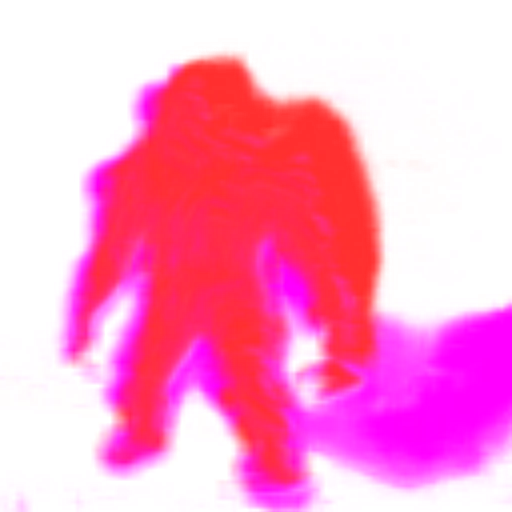
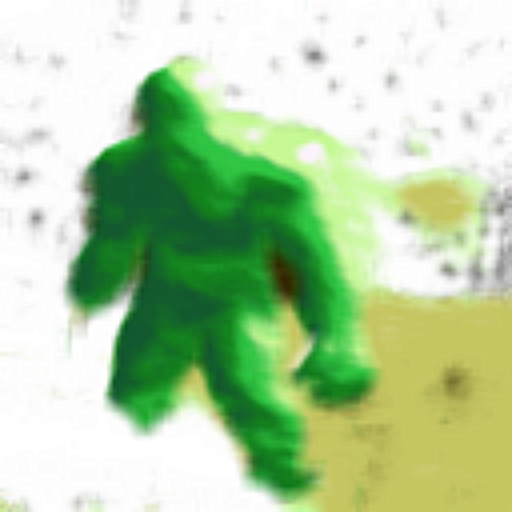
fixed display

diff --git a/mainwindow.cpp b/mainwindow.cpp
@@ -23,12 +23,18 @@ MainWindow::MainWindow()
     settings.loadSettingsOrDefaults();
 
     QHBoxLayout *hLayout = new QHBoxLayout(); // horizontal layout for canvas and controls panel
+    QHBoxLayout *hLayout_output = new QHBoxLayout(); // horizontal layout for canvas and controls panel
     QVBoxLayout *vLayout = new QVBoxLayout(); // vertical layout for control panel
+    QVBoxLayout *vLayout_output = new QVBoxLayout(); // vertical layout for control panel
 
     vLayout->setAlignment(Qt::AlignTop);
-
     hLayout->addLayout(vLayout);
+
+    //vLayout_output->setAlignment(Qt::AlignBottom);
+    //hLayout_output->addLayout(vLayout_output);
+
     setLayout(hLayout);
+    //setLayout(hLayout_output);
 
     setupCanvas2D();
     resize(800, 600);
@@ -36,8 +42,10 @@ MainWindow::MainWindow()
     // makes the canvas into a scroll area
     QScrollArea *scrollArea = new QScrollArea();
     scrollArea->setWidget(m_canvas);
+    //scrollArea->setWidget(m_canvas_output);
     scrollArea->setWidgetResizable(true);
     hLayout->addWidget(scrollArea, 1);
+
 
     // groupings by project
     QWidget *brushGroup = new QWidget();
@@ -101,6 +109,15 @@ void MainWindow::setupCanvas2D() {
     if (!settings.imagePath.isEmpty()) {
         m_canvas->loadImageFromFile(settings.imagePath);
     }
+
+
+//    m_canvas_output = new Canvas2D();
+//    m_canvas_output->init();
+//    if (!settings.imagePath.isEmpty()) {
+//        m_canvas_output->loadImageFromFile(settings.imagePath);
+//    }
+//    m_canvas_output->m_data.assign(m_canvas_output->m_width * m_canvas_output->m_height, RGBA{150, 255, 255, 255});
+
 }
 
 
@@ -239,22 +256,28 @@ void MainWindow::onStylizeButtonClick() {
     m_canvas->m_width = 128;
     m_canvas->m_height = 128;
 
-    // save drawing
-    QString file = QFileDialog::getSaveFileName(this, tr("Save Image"), QDir::currentPath(), tr("Image Files (*.png *.jpg *.jpeg)"));
-    m_canvas->saveImageToFile(file);
-    //saveImageToFile("Drawings/RECONSTRUCTION.png", m_canvas->m_data, 512, 512);
-
     int num_iterations = 6;
 
     std::vector<QString> srcPaths;
-    srcPaths.reserve(6);
+    srcPaths.reserve(5);
 
     std::vector<QString> tgtPaths;
-    srcPaths.reserve(6);
+    srcPaths.reserve(5);
 
     const QString srcFolder = "Data/Sphere_128/";
     const QString tgtFolder = "Data/Guy_128/"; // TO DO: user selection
-    const QString stylization = file;
+
+    auto blackTup = loadImageFromFile(tgtFolder + "black_square.bmp");
+    std::vector<RGBA> black_RGBA =  *std::get<0>(blackTup);
+
+//    std::vector<RGBA> starting_tgt_style;
+//    starting_tgt_style.assign(128 * 128, RGBA{255, 255, 255, 255});
+
+    Image srcImg, tgtImg;
+    tgtImg.width = 128;
+    tgtImg.height = 128;
+    srcImg.width = 128;
+    srcImg.height = 128;
 
     srcPaths.push_back(srcFolder + "color.bmp");
     srcPaths.push_back(srcFolder + "LPE1.bmp");
@@ -268,9 +291,8 @@ void MainWindow::onStylizeButtonClick() {
     tgtPaths.push_back(tgtFolder + "LPE3.bmp");
     tgtPaths.push_back(tgtFolder + "LPE4.png");
 
-    Image srcImg, tgtImg;
-    init_image(srcPaths, stylization, srcImg, num_iterations);
-    init_image(tgtPaths, tgtFolder + "black_square.bmp", tgtImg, num_iterations);
+    init_image(srcPaths, m_canvas->m_data, srcImg, num_iterations);
+    init_image(tgtPaths, black_RGBA, tgtImg, num_iterations);
 
     Stylit stylit;
     std::vector<RGBA> stylized_image_RGBA = stylit.run(srcImg, tgtImg, num_iterations);
@@ -283,16 +305,11 @@ void MainWindow::onStylizeButtonClick() {
     std::vector<float> blur_kernel =  {1.f/9.f, 1/9.f, 1/9.f, 1.f/9.f, 1/9.f, 1.f/9.f, 1/9.f, 1/9.f, 1.f/9.f};
     final_image = convolve.sharpen(final_image, 512, 512, blur_kernel);
 
-    // save image
     saveImageToFile("Output/RECONSTRUCTION.png", final_image, 512, 512);
 
-    // display image
-//    m_canvas->m_data =  final_image;
-//    m_canvas->m_width = 512;
-//    m_canvas->m_height = 512;
-//    QByteArray* img = new QByteArray(reinterpret_cast<const char*>(m_canvas->m_data.data()), 4*m_canvas->m_data.size());
-//    QImage now = QImage((const uchar*)img->data(), m_canvas->m_width, m_canvas->m_height, QImage::Format_RGBX8888);
-//    m_canvas->setPixmap(QPixmap::fromImage(now));
-//    setFixedSize(m_canvas->m_width, m_canvas->m_height);
-//    update();
+    // save image
+    m_canvas->m_width = 512;
+    m_canvas->m_height = 512;
+    m_canvas->m_data = final_image;
+    m_canvas->displayImage();
 }

diff --git a/main.cpp b/main.cpp
@@ -35,6 +35,8 @@ int main(int argc, char *argv[])
         std::vector<QString> tgtPaths;
         srcPaths.reserve(6);
 
+        Image srcImg, tgtImg;
+
         // get settings file
         QSettings settings(args[0], QSettings::IniFormat);
 
@@ -43,6 +45,17 @@ int main(int argc, char *argv[])
         const QString srcFolder = settings.value("source/folderPath").toString();
         const QString tgtFolder = settings.value("target/folderPath").toString();
         const QString stylization = settings.value("style/filePath").toString();
+
+        auto styleTup = loadImageFromFile(stylization);
+        std::vector<RGBA> style_RGBA = *std::get<0>(styleTup);
+        srcImg.width = std::get<1>(styleTup);
+        srcImg.height = std::get<2>(styleTup);
+
+        auto blackTup = loadImageFromFile(tgtFolder + "black_square.bmp");
+        std::vector<RGBA> black_RGBA =  *std::get<0>(blackTup);
+        tgtImg.width = std::get<1>(blackTup);
+        tgtImg.height = std::get<2>(blackTup);
+
 
         srcPaths.push_back(srcFolder + "color.bmp");
         srcPaths.push_back(srcFolder + "LPE1.bmp");
@@ -56,15 +69,14 @@ int main(int argc, char *argv[])
         tgtPaths.push_back(tgtFolder + "LPE3.bmp");
         tgtPaths.push_back(tgtFolder + "LPE4.png");
 
-        Image srcImg, tgtImg;
-        init_image(srcPaths, stylization, srcImg, num_iterations);
-        init_image(tgtPaths, tgtFolder + "black_square.bmp", tgtImg, num_iterations);
+        init_image(srcPaths, style_RGBA, srcImg, num_iterations);
+        init_image(tgtPaths, black_RGBA, tgtImg, num_iterations);
 
         int original_tgt_width = tgtImg.width;
         int original_tgt_height = tgtImg.height;
 
         Stylit stylit;
-        std::vector<RGBA> stylized_image_RGBA = stylit.run(srcImg, tgtImg, num_iterations);
+        std::vector<RGBA> final_image_RGBA = stylit.run(srcImg, tgtImg, num_iterations);
         //saveImageToFile("Output/RECONSTRUCTION.png", stylized_image_RGBA, original_tgt_width, original_tgt_height);
 
         // sharpening:
@@ -74,12 +86,10 @@ int main(int argc, char *argv[])
         //    const std::vector<RGBA>& RGBimage = std::get<0>(tup);
         //    std::vector<RGBA> stylized_image_RGBA = RGBimage;
 
-
         // or just use output of stylit
         Convolve convolve;
         std::vector<float> blur_kernel =  {1.f/5.f, 1/5.f, 1/5.f, 1.f/5.f, 1/5.f};
-        std::vector<RGBA> sharpened = convolve.sharpen(stylized_image_RGBA, original_tgt_width, original_tgt_height, blur_kernel);
-
+        std::vector<RGBA> sharpened = convolve.sharpen(final_image_RGBA, original_tgt_width, original_tgt_height, blur_kernel);
         saveImageToFile("Output/RECONSTRUCTION.png", sharpened, original_tgt_width, original_tgt_height);
 
 
@@ -92,4 +102,6 @@ int main(int argc, char *argv[])
         a.exit(1);
         return 1;
     }
+
+    return 0;
 }

diff --git a/stylit.cpp b/stylit.cpp
@@ -8,7 +8,7 @@ Stylit::Stylit()
 
 }
 
-void init_image(const std::vector<QString>& LPEnames, const QString styleName, Image& img, int num_iterations) {
+void init_image(const std::vector<QString>& LPEnames, std::vector<RGBA> style_image, Image& img, int num_iterations) {
 //#pragma omp parallel for
     Gaussianpyramid gaussianpyramid;
     img.pyramid = new Pyramid_t();
@@ -18,15 +18,14 @@ void init_image(const std::vector<QString>& LPEnames, const QString styleName, I
     }
 
     // do gaussian pyramid for stylized image
-    auto styleTup = loadImageFromFile(styleName);
-    img.width = std::get<1>(styleTup);
-    img.height = std::get<2>(styleTup);
-    img.pyramid->style =  gaussianpyramid.create_pyrimid(num_iterations, *std::get<0>(styleTup), img.width, img.height);
+    img.pyramid->style =  gaussianpyramid.create_pyrimid(num_iterations, style_image, img.width, img.height);
 
     // do gaussian pyramids
     for (int i = 0; i < LPEnames.size(); ++i) {
         const QString& filename  = LPEnames[i];
         auto LPEtup = loadImageFromFile(filename);
+//        img.width = std::get<1>(LPEtup);
+//        img.height = std::get<2>(LPEtup);
         const std::vector<std::vector<RGBA>>& pyr = gaussianpyramid.create_pyrimid(num_iterations, *std::get<0>(LPEtup), img.width, img.height);
         for (int j = 0; j < pyr.size(); ++j) {
             img.pyramid->LPEs[j][i] = pyr[j];

diff --git a/stylit.h b/stylit.h
@@ -36,6 +36,6 @@ private:
     double mu = 2.0;
 };
 
-void init_image(const std::vector<QString>& LPEnames, const QString styleName, Image& img, int num_iterations);
+void init_image(const std::vector<QString>& LPEnames, std::vector<RGBA> style_image, Image& img, int num_iterations);
 
 #endif // STYLIT_H

diff --git a/mainwindow.h b/mainwindow.h
@@ -23,6 +23,7 @@ public:
 private:
     void setupCanvas2D();
     Canvas2D *m_canvas;
+    Canvas2D *m_canvas_output;
 
     void addHeading(QBoxLayout *layout, QString text);
     void addLabel(QBoxLayout *layout, QString text);

diff --git a/canvas2d.h b/canvas2d.h
@@ -33,7 +33,6 @@ public:
 
     std::vector<RGBA> m_data;
 
-
 private:
     //std::vector<RGBA> m_data;
 
